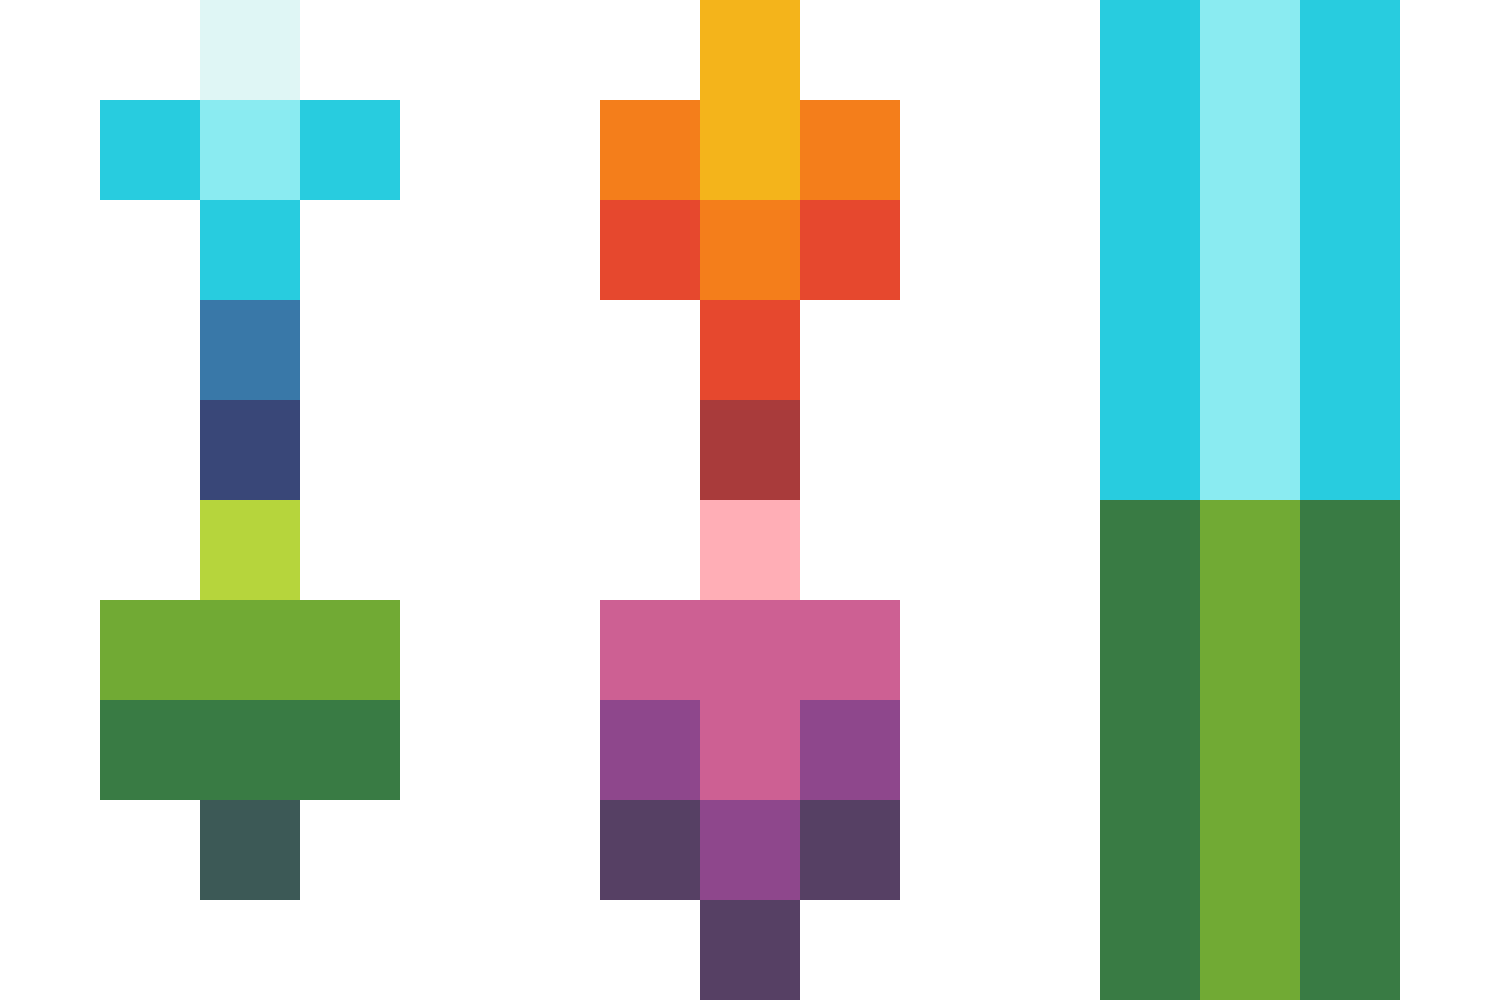
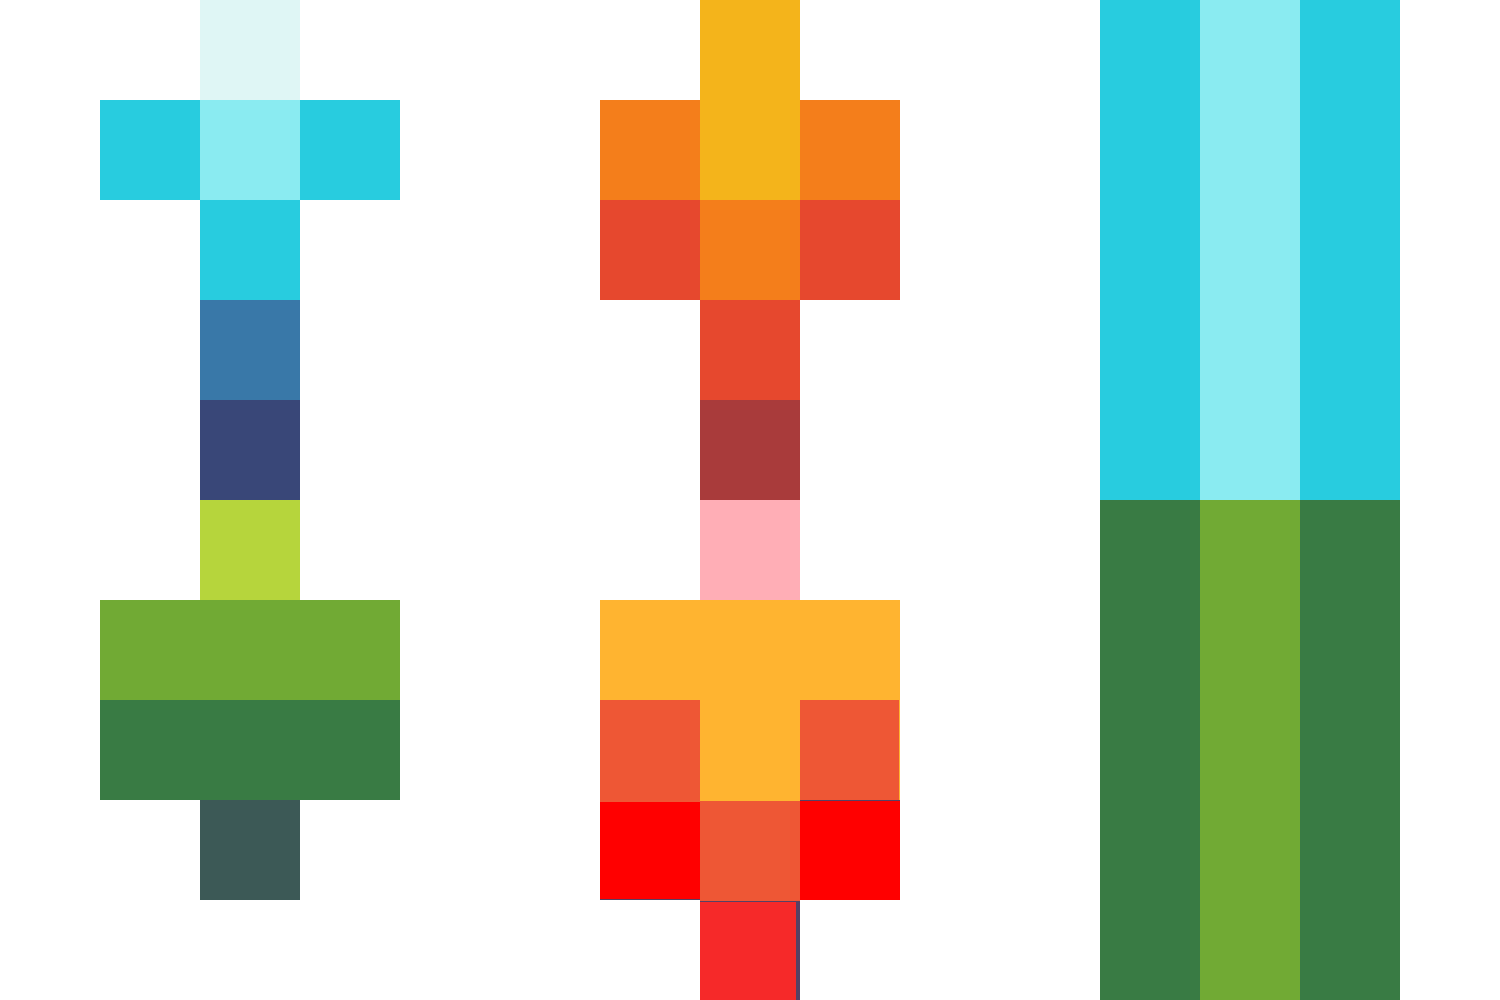
refactor(gameLayer): changed the some textures

Changed region(s): [[0.3987, 0.589, 0.6133, 1.0]]

diff --git a/src/gameLayer/gameLayer.cpp b/src/gameLayer/gameLayer.cpp
@@ -44,8 +44,8 @@ bool initGame()
 	gl2d::init();
 	renderer.create();
 
-	human1BodyTexture.loadFromFile(RESOURCES_PATH "spaceShip/ships/green.png", true); //replace this sprite if naa na;
-	human2BodyTexture.loadFromFile(RESOURCES_PATH "spaceShip/ships/green.png", true); 
+	human1BodyTexture.loadFromFile(RESOURCES_PATH "jet.png", true); //replace this sprite if naa na;
+	human2BodyTexture.loadFromFile(RESOURCES_PATH "jet.png", true); 
 	backgroundTexture.loadFromFile(RESOURCES_PATH "tempBackground.png", true);
 
 	bulletsTexture.loadFromFileWithPixelPadding
@@ -89,10 +89,9 @@ bool gameLogic(float deltaTime)
 	if (move1.x != 0 || move1.y != 0)
 	{
 		move1 = glm::normalize(move1);
+		data.player1Angle = move1;
 		move1 *= deltaTime * 500;
 		data.player1Pos += move1;
-		data.player1Angle += move1;
-		data.player1Angle = glm::normalize(data.player1Angle);
 	}
 
 	float jet1Angle = atan2(-data.player1Angle.x, -data.player1Angle.y);
@@ -116,10 +115,9 @@ bool gameLogic(float deltaTime)
 	if (move2.x != 0 || move2.y != 0)
 	{
 		move2 = glm::normalize(move2);
+		data.player2Angle = move2;
 		move2 *= deltaTime * 500;
 		data.player2Pos += move2;
-		data.player2Angle += move2;
-		data.player2Angle = glm::normalize(data.player2Angle);
 	}
 	
 	float jet2Angle = atan2(-data.player2Angle.x, -data.player2Angle.y);
@@ -199,8 +197,8 @@ bool gameLogic(float deltaTime)
 
 
 
-	renderer.renderRectangle({ data.player1Pos, 100, 100 }, human1BodyTexture, Colors_White, {}, glm::degrees(jet1Angle));
-	renderer.renderRectangle({ data.player2Pos, 100, 100 }, human2BodyTexture, Colors_White, {}, glm::degrees(jet2Angle));
+	renderer.renderRectangle({ data.player1Pos, 170, 170 }, human1BodyTexture, Colors_White, {}, glm::degrees(jet1Angle));
+	renderer.renderRectangle({ data.player2Pos, 170, 170 }, human2BodyTexture, Colors_White, {}, glm::degrees(jet2Angle));
 
 	renderer.flush();
 

diff --git a/src/gameLayer/bullets.cpp b/src/gameLayer/bullets.cpp
@@ -16,11 +16,11 @@ glm::vec2 Bullets::getPos() {
 
 void Bullets::render(gl2d::Renderer2D& renderer, gl2d::Texture bulletsTexture, gl2d::TextureAtlasPadding bulletsAtlas) {
 	
+	fireDirection = glm::normalize(fireDirection);
 	float spaceShipAngle = atan2(-fireDirection.x, -fireDirection.y);
-	spaceShipAngle = glm::degrees(spaceShipAngle);
 
-	renderer.renderRectangle({ position - glm::vec2(25,25), 50,50 },
-		bulletsTexture, Colors_White, {}, spaceShipAngle, bulletsAtlas.get(1, 1));
+	renderer.renderRectangle({ position - glm::vec2(25,25), 40, 40 },
+		bulletsTexture, Colors_White, {}, glm::degrees(spaceShipAngle), bulletsAtlas.get(1, 1));
 }
 
 void Bullets::update(float deltaTime) {
